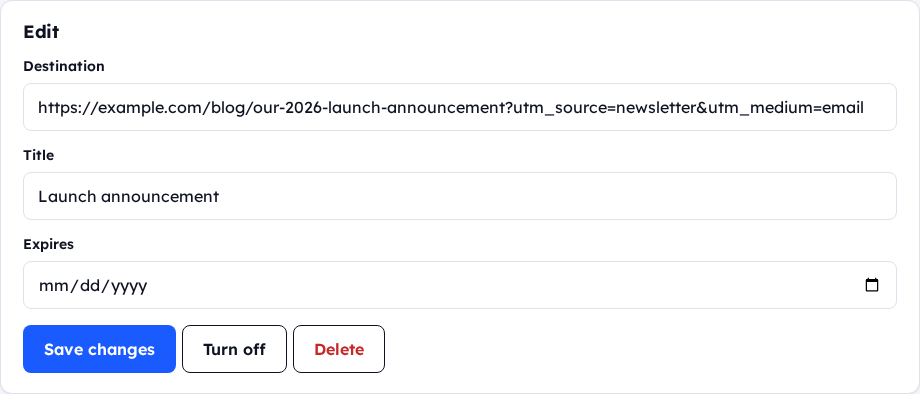
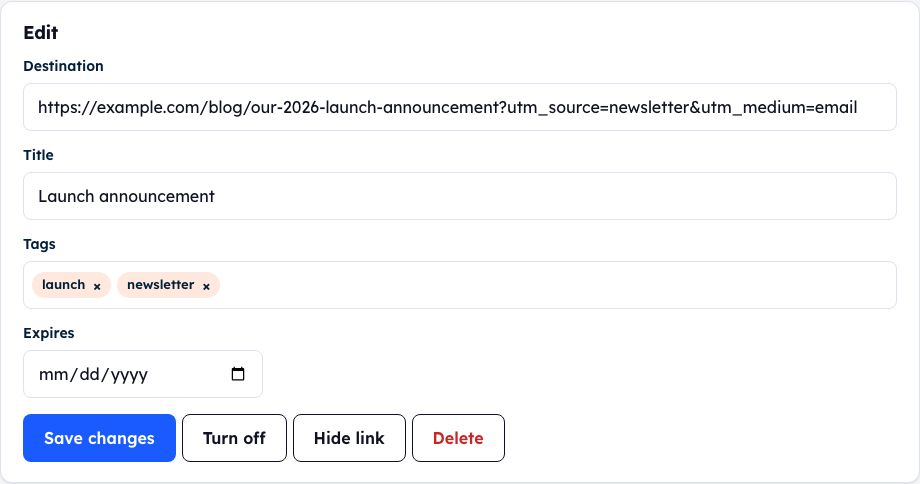
Hygiene: 390px fixes, production smoke for the new flows, README and parity report
Finding #23 and the extra checks from the QA pass. Fixes a login column that overflowed 390px, the mobile sidebar overflow and the footer bar overlapping the (now longer) Products column. scripts/shots.mjs now drives the real flows (Home quick create, create page with tags, styled QR, analytics, styled delete, hero → create page as a guest, branded 404); shotlib writes screenshots under $TMPDIR and sets AUTH_SECRET so guest sessions behave as on the live deploy. docs/PARITY_REPORT.md maps all 23 findings to fixed / justified exception with the before/after shots in docs/qa/2026-10-15/.

diff --git a/app/landing.css b/app/landing.css
@@ -60,9 +60,9 @@
 .bz-app__box{background:#fff;border-radius:12px;box-shadow:0 0 0 1px #e8e8ee;height:260px;padding:20px;position:relative;font-size:14px}.bz-app__box b{display:block;font-size:20px;font-weight:600;margin-bottom:20px}.bz-app__box i{display:block;height:40px;border:1px solid #d0d0d6;border-radius:6px;margin-top:8px}.bz-app__box em{position:absolute;right:20px;bottom:30px;background:#2A5BD7;color:#fff;font-style:normal;padding:10px 18px;border-radius:6px;font-weight:600}
 .bz-app__chart{margin-top:20px;background:#fff;box-shadow:0 0 0 1px #e8e8ee;border-radius:12px;padding:16px 20px;height:240px;overflow:hidden}.bz-app__chart strong{display:block;font-size:30px;margin:4px 0 12px}.bz-app__chart svg{width:100%;height:120px}
 /* footer */
-.bz-ft{background:var(--orange);height:780px;padding:64px 48px 0;box-sizing:border-box;position:relative;margin-top:0}
+.bz-ft{background:var(--orange);min-height:780px;padding:64px 48px 140px;box-sizing:border-box;position:relative;margin-top:0}
 .bz-ft__cols{display:grid;grid-template-columns:repeat(5,1fr);gap:0 16px}.bz-ft h3{font-size:18px;line-height:24px;font-weight:600;margin-bottom:18px;color:var(--navy)}.bz-ft a{display:block;font-size:16px;line-height:24px;margin-bottom:13px;color:var(--navy)}
-.bz-ft__bar{position:absolute;left:48px;right:48px;bottom:60px;display:flex;align-items:center;gap:36px;color:var(--navy)}.bz-ft__bar p{font-size:14px;max-width:240px;line-height:20px}.bz-ft__bar p a{display:inline;font-size:14px;text-decoration:underline}
+.bz-ft__bar{position:absolute;left:48px;right:48px;bottom:60px;display:flex;align-items:center;gap:36px;color:var(--navy)}.bz-ft__bar p{font-size:14px;max-width:560px;line-height:20px}.bz-ft__bar p a{display:inline;font-size:14px;text-decoration:underline}
 .bz-soc{display:flex;gap:16px;margin-left:auto}.bz-soc i{width:22px;height:22px;display:grid;place-items:center;font-style:normal;font-size:14px;font-weight:700}.bz-badges{display:flex;gap:6px}.bz-badges i{width:56px;height:70px;border-radius:12px;background:#FFC999;border:1px solid #fff8;display:grid;place-items:end center;font-size:10px;font-weight:800;font-style:normal;padding-bottom:6px;color:#fff}
 .bz-lang{background:#FFC999;border-radius:8px;padding:6px 12px;font-size:14px}
 @media (max-width:1100px){

diff --git a/app/appshell.css b/app/appshell.css
@@ -16,7 +16,7 @@
 .as-out{background:none;border:0;color:inherit;opacity:.7;font:inherit;font-size:13px;cursor:pointer;padding:6px}
 .as-body{flex:1;min-width:0}
 .as .app-root{min-height:0}
-@media (max-width:860px){.as--side{flex-direction:column}.as-side{position:static;width:auto;height:auto;flex-direction:row;overflow-x:auto;padding:8px;border-right:0;border-bottom:1px solid var(--side-bd)}.as-logo{padding:0 8px}.as-cta{display:none}.as-nav{display:flex;flex:none}.as-foot{display:none}.as-it span{display:none}.as-search{display:none}.as-tnav{display:none}}
+@media (max-width:860px){.as--side{flex-direction:column;overflow-x:clip}.as-side{position:static;width:100%;min-width:0;height:auto;flex-direction:row;overflow-x:auto;padding:8px;border-right:0;border-bottom:1px solid var(--side-bd)}.as-logo{padding:0 8px}.as-cta{display:none}.as-nav{display:flex;flex:none}.as-foot{display:none}.as-it span{display:none}.as-search{display:none}.as-tnav{display:none}}
 /* create menu, search results, guest pill, modals */
 .as-create{position:relative;margin-bottom:6px}.as-create .as-cta{width:100%;margin:0;border:0;cursor:pointer;font-family:inherit}.as-menu{position:absolute;left:0;right:0;top:46px;background:#fff;border:1px solid var(--side-bd);border-radius:var(--r);box-shadow:0 8px 24px rgba(0,0,0,.12);padding:6px;z-index:40;display:grid}.as-menu a{display:flex;gap:10px;align-items:center;padding:9px 10px;border-radius:var(--r);color:inherit;text-decoration:none;font-size:14px;font-weight:500}.as-menu a:hover{background:rgba(0,0,0,.05)}
 .as-search{position:relative;padding:0}.as-search form{display:flex;align-items:center;gap:8px;width:100%;height:100%;padding:0 14px}.as-hits{position:absolute;top:46px;left:0;right:0;background:#fff;border:1px solid var(--top-bd);border-radius:12px;box-shadow:0 12px 32px rgba(0,0,0,.14);padding:6px;z-index:50;color:var(--top-ink);max-height:420px;overflow:auto}

diff --git a/app/auth-screen.css b/app/auth-screen.css
@@ -22,6 +22,6 @@
 .bz-right{position:relative;background:#f6f3ec;overflow:hidden}
 .bz-svg{position:absolute;inset:0;width:100%;height:100%}
 .bz-cap{position:absolute;left:0;right:0;top:674px;margin:0 auto;width:640px;max-width:90%;text-align:center;font-size:29px;line-height:41px;font-weight:700;color:#273144}
-@media (max-width:860px){.bz-au{grid-template-columns:1fr}.bz-right{display:none}.bz-logo{left:20px}.bz-form{padding-top:110px}}
+@media (max-width:860px){.bz-au{grid-template-columns:minmax(0,1fr)}.bz-left{min-width:0}.bz-right{display:none}.bz-logo{left:20px}.bz-form{width:auto;max-width:none;margin:0 20px;padding-top:110px}}
 
 .bz-right.su .bz-cap{top:658px}

diff --git a/docs/PARITY_REPORT.md b/docs/PARITY_REPORT.md
@@ -1,0 +1,46 @@
+# Parity report: BitlyIsDead vs Bitly (QA pass of 2026-10-15)
+
+23 findings from the hands-on QA pass (8 high, 7 medium, 8 low). Each is **Fixed** or a **Justified exception**. Screenshots live in `docs/qa/2026-10-15/` as `before-*` (main before this work) and `after-*`. Verification is a Playwright script per area in `scripts/e2e-*.mjs` plus `npm run shots` (production build smoke).
+
+**How the [gk] items were checked.** The QA browser was not signed in to Bitly and no throwaway Bitly account was created (same approach as the other IsDead clones). Bitly's app behaviour was read from its public Help Center on 2026-10-15 (links filters and Active/Hidden view, hide/unhide, tags, the create flow with domain/back-half/UTM/QR toggles, QR customisation options and error-correction level H, sign-up flow) and its public pricing page (prices and the annual/monthly toggle). Where the Help Center did not confirm something it is marked below.
+
+| # | Finding | Status | PR | How it was closed |
+|---|---------|--------|----|-------------------|
+| 1 | App nav items were dead `#hash` links; `/app/settings` etc. 404 | Fixed | shell + each feature PR | Real routes: `/app` (Home dashboard), `/app/links`, `/app/links/new`, `/app/qr`, `/app/pages`, `/app/analytics`, `/app/campaigns`, `/app/domains`, `/app/settings{,/security,/api,/billing}`, `/app/upgrade`. Sidebar highlights the section; "Create new" is a menu (Link / QR Code / Page). |
+| 2 | No QR Code builder or customisation | Fixed | qr-codes | Two-step builder: destination/title/back-half/UTM → design (6 templates, square/rounded/dot pattern, square/rounded/circle corners, colours, label or border frame with text, PNG/JPEG/SVG logo; error correction H). Downloads PNG, SVG and JPEG. List with scan counts, hide, search, sort. Scans are counted apart from clicks (`/s/<code>?r=qr`). |
+| 3 | Link-in-bio Pages missing | Fixed | pages-campaigns | Builder with title, bio, avatar emoji, 5 themes, link/heading/text blocks (reorder/remove), custom URL, live phone preview, publish/unpublish. Public page at `/p/<slug>` counts views; link blocks redirect through `/p/<slug>/<block>` and count clicks. |
+| 4 | Custom domains missing | Fixed (labelled limit) | domains-settings | Add a domain, see the TXT + CNAME records, Verify runs real DNS lookups and reports what it found. Routing a custom host is only possible on a self-hosted deployment; the page and the create-link domain picker say so instead of pretending. |
+| 5 | Campaigns missing | Fixed | pages-campaigns | Campaigns with description and default UTM parameters (pre-filled on links created inside the campaign), add existing links, remove, and rolled-up analytics (30-day engagements, top links, referrers, devices, countries). |
+| 6 | Settings / profile / API token / billing missing; Upgrade dead | Fixed | domains-settings | Profile (display name, email), Security (password change via Firebase re-auth; Google accounts told why there's no password), API (tokens shown once, hashed, revocable; bearer auth on every `/api` route; docs at `/developers`), Billing (free plan, no payment method). `/app/upgrade` explains there is nothing to buy and never takes payment. Guests get a sign-in prompt where an account is required. |
+| 7 | No locations; no global Analytics | Fixed | shell (data) + analytics | Country and city recorded from the platform's geo headers (never the IP); shown on link details, QR details, campaigns and the new `/app/analytics` (7/30/90-day or custom range, top links, referrers, devices, browsers, countries, cities, CSV export). |
+| 8 | Links list: no tags/filters/sort/archive/bulk | Fixed | links-list | Tags (create flow, details, ⋯ menu, bulk), filters (created date incl. custom range, tags, link type, expiration), Active/Hidden view with hide/unhide (Bitly's "hide link"), sort (newest/oldest/most clicks), select all + bulk hide/unhide/add tags/delete, ⋯ row menu. |
+| 9 | Create flow lacked title/back-half/domain/UTM/QR; 5–20 s "Shortening…" | Fixed | create-flow (+ shell) | `/app/links/new`: destination, title, domain, custom back-half, UTM builder (5 standard params + custom params + live preview), QR Code toggle, tags, expiry; link copied on create. Latency: `POST /api/links` no longer loads every link document first; code checks and index/link writes run in parallel. Locally create → details ≈ 0.7 s; the production number depends on Firestore + cold start, measurable once deployed. |
+| 10 | Redirect / turned-off / not-found behaviour | Kept | — | Unchanged and covered by `npm run shots` (307 + no-store, 410 for off/expired, 404 unknown, bots not counted). |
+| 11 | Native `confirm()` on delete | Fixed | links-list | Styled confirm dialog everywhere (links, bulk, QR, pages, campaigns, domains, tokens). Title, destination and tags editable on details. |
+| 12 | Header search did nothing | Fixed | shell | Live results across links, QR Codes and Pages; Enter opens `/app/links?q=…`. |
+| 13 | Hero shortener callbackUrl missing the prefix; pending URL unverified | Fixed + verified | auth-marketing | Hero goes straight to `/app/links/new?url=…` (guest session minted on the way, path kept by middleware); QR tab to `/app/qr/new?url=…`. With guests off, login keeps the full path. Verified in `e2e-auth-marketing.mjs` and `npm run shots`. |
+| 14 | "Add tracking to your link" → Vercel 404 | Fixed | auth-marketing | Links to the create-link route with the typed URL. |
+| 15 | ~55 footer links → `/login`; "Get a Quote" → login | Fixed | auth-marketing | Every nav/footer link resolves: products → app sections, resources → Help Center, Developers, GitHub, legal → original Privacy/Terms/Acceptable Use pages, company → About/What's new/Contact/Accessibility. Columns that would have needed invented content (Solutions industries, Blog, Press…) were dropped. "Get a Quote" → pricing Enterprise block → About/contact. Fake GDPR/CCPA/SOC 2 badges, dead social icons, language picker, borrowed customer logos, KPIs and testimonials removed. |
+| 16 | Paid tiers showed $0; Free said 1 QR Code | Fixed | auth-marketing | Free $0 (2 QR Codes/mo), Core $10/mo annual only ($120/yr), Growth $29/mo ($348/yr) or $35 monthly, Premium $199/mo ($2,388/yr) or $300 monthly; the annual/monthly toggle works. Checked on bitly.com/pages/pricing 2026-10-15 (Growth's $35 monthly figure is the one value not captured by the browser read-out; treat as [gk]). |
+| 17 | Login page | Fixed (polish) | auth-marketing | Google + email/password only (the IsDead rule: no greyed-out Apple/SSO buttons); legal links go to real pages; "Forgot your password?" is a real page. |
+| 18 | Sign-up; onboarding survey | Fixed | auth-marketing | Sign-up unchanged; new accounts land on `/welcome`, one optional question ("What will you use it for?") that personalises Home, with Skip. Bitly's Help Center describes sign-up as email verification only, so the survey's exact content is [gk]; ours is deliberately minimal. |
+| 19 | Forgot password inline on `/login` | Fixed | auth-marketing | `/forgot-password` is its own page ("Reset"); login links to it. |
+| 20 | Bare Next.js 404 | Fixed | shell | Branded "Error 404 · Page not found" page with explanation and two ways out, for marketing and app URLs. |
+| 21 | `/app` opens as a guest workspace when signed out | **Justified exception** | shell | IsDead decision (2026-10-15): every web app opens as a guest, sign-in is for keeping work across devices. Sign-out returns to the marketing site and clears the guest cookie, so the next visit is a fresh workspace; signing back in restores the account's data. Guest links/QR Codes/pages/campaigns/domains are re-owned on sign-in (this was also a bug: only the index moved before, so guest links vanished after sign-in). |
+| 22 | "1 links · 1 clicks" | Fixed | shell + links-list | Singular/plural everywhere via `plural()`. |
+| 23 | Console errors | Kept clean | all | Every e2e script and `scripts/qa-shots.mjs` fail on console/page errors (expected validation 400s and deliberate 404 probes excluded). |
+
+## Extra checks the QA pass asked for
+
+- **390 px layout:** landing, pricing, login, app Home and Links have no horizontal scroll (`scripts/qa-shots.mjs`, `after-m-*.png`). Fixed a login column overflow and the mobile sidebar overflow found on the way.
+- **Link expiry:** create flow and details page set it; expired links return 410 (`tests/unit/linkstore.test.ts`, `npm run shots`).
+- **Clipboard copy content:** `origin + /bitlyisdead/s/<code>` (create flow copies on create; Copy buttons on Home, Links, details, QR, pages).
+- **SVG download:** QR SVG via the QR detail page (browser download, asserted non-empty with the right filename) and `/api/qr/<code>` (plain) — `e2e-qr.mjs`, `npm run shots`.
+- **Google/Apple/SSO buttons:** Apple and SSO removed (never worked, IsDead rule); Google works where Firebase is configured (not testable on the local file store; the hosted deploy has the keys).
+- **Hero callback surviving login:** verified for the guest path; the login path keeps the full path in `callbackUrl` (`app/login/page.tsx` strips/re-adds the base path).
+
+## Needs a human decision
+
+1. **Guest workspace (#21)** is kept on purpose; say so if Bitly-parity should win and `/app` should bounce to login (`GUESTS=0` does that today).
+2. **Custom-domain routing** stays self-hosted-only unless the hub gets a wildcard host.
+3. **Growth monthly price ($35)** should be eyeballed on bitly.com before the pricing PR merges.

diff --git a/README.md b/README.md
@@ -1,31 +1,37 @@
 # BitlyIsDead
 
-Free, open-source short links with click analytics and QR codes. Part of [IsDead](https://yourappisdead.com): open-source clones of paid SaaS. Served at `https://yourappisdead.com/bitlyisdead`; short links live at `/bitlyisdead/s/<code>`.
+Free, open-source short links, QR Codes, link-in-bio pages and campaigns with click analytics. Part of [IsDead](https://yourappisdead.com): open-source clones of paid SaaS. Served at `https://yourappisdead.com/bitlyisdead`; short links live at `/bitlyisdead/s/<code>`, pages at `/bitlyisdead/p/<slug>`.
 
-- **Homepage** (`/`): mirrors Bitly's homepage structure (shorten-a-link hero, steps, feature rows, stats, price comparison at `#pricing`) with original copy and art.
-- **Login** (`/login`): shared IsDead Firebase auth (email/password + Google); one demo account in demo mode.
-- **App** (`/app`, `/app/l/<code>`): create links (auto 6-char code or custom back-half, title, expiry), search, copy, turn off/on, edit destination, delete; per-link 30-day chart, top referrers, devices, browsers; QR code download (PNG and SVG).
-- **Redirect** (`/s/<code>`): 307 with `no-store` so every visit is counted. Crawlers and link-preview bots are counted separately and never inflate clicks. Off, expired and unknown links return a clear 410/404 page.
+- **Homepage** (`/`): mirrors Bitly's homepage structure (shorten-a-link hero, bento, use cases, orange footer) with original copy and art. `/pricing` shows Bitly's real prices (October 2026) next to our $0; `/compare` is the feature table.
+- **Auth** (`/login`, `/forgot-password`, `/welcome`): shared IsDead Firebase auth (email/password + Google), a demo account in demo mode, and no-signup **guest sessions** (work is adopted by the account on sign-in).
+- **App** (`/app`): Home with quick create · Links (tags, filters, sort, hide, bulk actions) · create flow with UTM builder and QR toggle · QR Codes (templates, patterns, corners, colours, frames, logo; PNG/SVG/JPEG; scans) · Pages (link-in-bio builder, themes, blocks, public URL with views and per-button clicks) · Analytics (date range, top links, referrers, devices, browsers, countries, cities) · Campaigns (shared UTMs, rolled-up analytics) · Custom domains (real DNS verification; routing needs self-hosting) · Settings (profile, password, API tokens, billing) · Upgrade (never takes payment).
+- **API** (`/developers`): everything above over JSON with `Authorization: Bearer bid_…` tokens from Settings → API.
+- **Redirect** (`/s/<code>`): 307 with `no-store` so every visit is counted; `?r=qr` counts a scan instead of a click. Crawlers and link-preview bots are counted separately. Off, expired and unknown links return a clear 410/404 page. Locations use only the country/city headers the platform attaches (never the IP).
 - **Safety:** only public http(s) destinations are accepted (no `javascript:`, `file:`, localhost, private IPs, embedded credentials, or other short links); redirects only ever go to the stored, validated URL.
 
-Design: theme `bitly` in `vendor/isdead-design` (canonical `/workspace/isdead-design`); font Lexend (OFL) as a lookalike for Bitly's proprietary face.
+Design: theme `bitly` in `vendor/isdead-design`; brand mark is the IsDead tombstone on Bitly orange (original art); font Lexend (OFL) as a lookalike for Bitly's proprietary face.
 
 ## Run
 
 ```
 npm ci
-npm run dev            # http://localhost:3000/bitlyisdead  (demo account in dev)
+NODE_OPTIONS=--unhandled-rejections=warn npm run dev   # http://localhost:3000/bitlyisdead (demo account + guests in dev)
 npm test && npm run typecheck
 npm run build && npm run shots   # production smoke test + screenshots
+BASE=http://localhost:3000/bitlyisdead node scripts/e2e-shell.mjs   # one per feature area: shell, links, create, qr, pages-campaigns, domains-settings, analytics, auth-marketing
 ```
 
-Env (production): `NEXT_PUBLIC_FIREBASE_*`, `FIREBASE_SERVICE_ACCOUNT_JSON`, `AUTH_SECRET`, optional `DEMO_MODE=1`, `ISDEAD_DATA_DIR`.
+Env (production): `NEXT_PUBLIC_FIREBASE_*`, `FIREBASE_SERVICE_ACCOUNT_JSON`, `AUTH_SECRET` (also enables guest sessions; `GUESTS=0` disables), optional `DEMO_MODE=1`, `ISDEAD_DATA_DIR`. Without Firebase env the app runs on JSON files with the demo account and guests.
+
+## Parity
+
+`docs/PARITY_REPORT.md` tracks every finding from the 2026-10-15 QA pass against Bitly (fixed / justified exception) with before/after screenshots in `docs/qa/2026-10-15/`.
 
 ## Gaps
 
-- **Storage:** `lib/store.ts` writes JSON files; Vercel's disk is ephemeral, so production needs the Firestore swap (same collection/id → JSON shape). Each click rewrites the link document, which won't scale to very hot links (use counters or a queue in production).
-- **Not built:** custom domains, bulk creation, UTM builder, deep links, link-in-bio pages, geography (city/country) and an API with keys.
+- **Custom domain routing:** domains verify by DNS, but the hosted deployment can't answer for another host; point the CNAME at a self-hosted copy.
+- **Not built:** bulk CSV upload, mobile deep links, teams/groups, SSO, saved UTM templates, QR Code bulk creation.
 - Short links are `/bitlyisdead/s/<code>` (not a bare short domain) until a short domain is attached.
-- Sign-in has not been tested against the live Firebase project (keys pending).
+- Each click rewrites the link document, which won't scale to very hot links (use counters or a queue in production).
 
 Not affiliated with Bitly. Apache-2.0.
